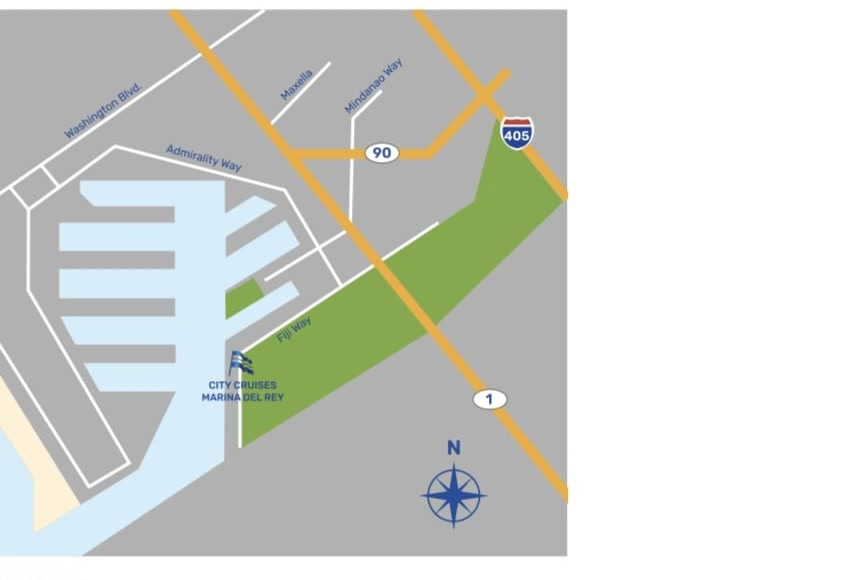
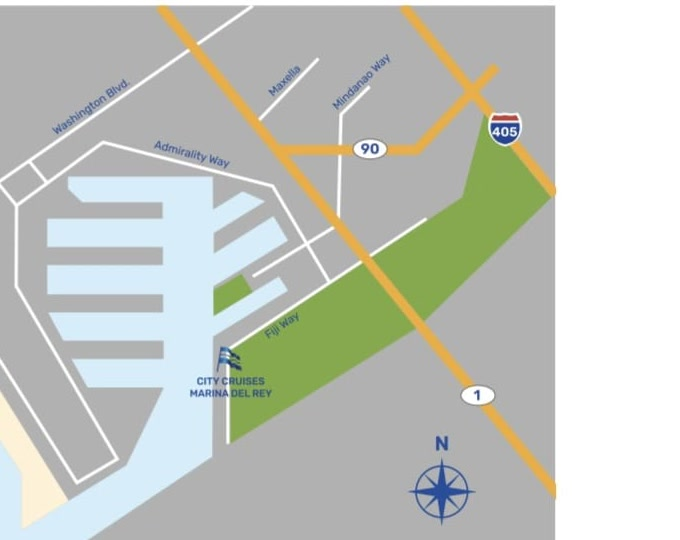
feat: croquis recortado limpio, lightbox expandible, texto PDF exacto (Location/Directions/Parking en ingles), yate.jpg como fondo seccion ceremonia

diff --git a/index.html b/index.html
@@ -981,13 +981,31 @@ h1 em,h2 em,h3 em{font-style:italic;font-weight:500;color:var(--accent)}
 .parking{text-align:center;contain:none;overflow:visible}
 .parking-inner{max-width:680px;margin:0 auto}
 .parking-map{
-  display:block;width:100%;max-width:520px;margin:0 auto 48px;
+  display:block;width:100%;max-width:460px;margin:0 auto 48px;
   border-radius:12px;
   border:1px solid rgba(201,166,100,.32);
   box-shadow:0 12px 40px rgba(26,46,74,.16),0 2px 8px rgba(26,46,74,.08);
-  overflow:hidden;
+  overflow:hidden;cursor:zoom-in;
+  transition:transform .3s ease,box-shadow .3s ease;
 }
+.parking-map:hover{transform:scale(1.02);box-shadow:0 16px 48px rgba(26,46,74,.22)}
 .parking-map img{width:100%;height:auto;display:block}
+/* Lightbox para expandir el croquis */
+#parking-lightbox{
+  position:fixed;inset:0;z-index:9990;display:none;
+  align-items:center;justify-content:center;
+  background:rgba(10,15,38,.85);
+  backdrop-filter:blur(12px);-webkit-backdrop-filter:blur(12px);
+  cursor:zoom-out;opacity:0;padding:clamp(16px,4vw,48px);
+}
+#parking-lightbox.is-open{display:flex}
+#parking-lightbox img{
+  max-width:min(92vw,800px);max-height:min(85vh,700px);
+  width:auto;height:auto;object-fit:contain;
+  border-radius:14px;
+  box-shadow:0 28px 90px rgba(0,0,0,.6),0 0 0 1px rgba(201,166,100,.3);
+  opacity:0;transform:scale(.88);
+}
 .parking-details{
   max-width:520px;margin:0 auto;text-align:left;
 }
@@ -1090,8 +1108,27 @@ a:focus-visible,button:focus-visible{outline:2px solid var(--gold);outline-offse
   .hero-content{padding:40px 20px}
 }
 /* ============ CELEBRACIÓN UNIFICADA (Ceremonia + Itinerario) ============ */
-.celebracion{padding:min(18vh,170px) 0;contain:none;overflow:visible}
+.celebracion{padding:min(18vh,170px) 0;contain:none;overflow:visible;position:relative}
 .celebracion .locs-sub{margin-bottom:64px}
+/* Yate background de la sección ceremonia */
+.celebracion-bg{
+  position:absolute;inset:0;width:100%;height:100%;
+  object-fit:cover;object-position:center 55%;
+  filter:saturate(.75) brightness(.88);
+  z-index:0;
+}
+.celebracion-overlay{
+  position:absolute;inset:0;z-index:0;
+  background:
+    linear-gradient(180deg,
+      var(--paper) 0%,
+      rgba(245,239,227,.82) 8%,
+      rgba(245,239,227,.65) 30%,
+      rgba(245,239,227,.65) 70%,
+      rgba(245,239,227,.82) 92%,
+      var(--paper) 100%);
+}
+.celebracion > .container{position:relative;z-index:1}
 .cer-sub-verse{
   font-family:var(--script);font-weight:400;
   font-size:clamp(26px,3.4vw,36px);
@@ -1663,6 +1700,8 @@ a:focus-visible,button:focus-visible{outline:2px solid var(--gold);outline-offse
 
   <!-- CELEBRACIÓN: CEREMONIA + ITINERARIO (sección unificada) -->
   <section class="section-paper celebracion locs itinerary">
+    <img class="celebracion-bg" src="yate.jpg" alt="" aria-hidden="true" loading="lazy">
+    <div class="celebracion-overlay" aria-hidden="true"></div>
     <span class="mono-wm" aria-hidden="true">U &amp; E</span>
     <div class="container">
 
@@ -1675,9 +1714,7 @@ a:focus-visible,button:focus-visible{outline:2px solid var(--gold);outline-offse
 
       <!-- BLOQUE 1 · CEREMONIA RELIGIOSA -->
       <div class="cer-block">
-        <article class="loc-card loc-card--solo loc-card--yate" data-tilt>
-          <img class="loc-card-bg" src="yate.jpg" alt="" aria-hidden="true">
-          <div class="loc-card-overlay" aria-hidden="true"></div>
+        <article class="loc-card loc-card--solo" data-tilt>
           <span class="washi washi--l"></span>
           <svg class="rosette rosette--tl" viewBox="0 0 44 44" fill="none" aria-hidden="true">
             <g stroke="var(--gold)" stroke-width=".8" fill="none">
@@ -1810,42 +1847,56 @@ a:focus-visible,button:focus-visible{outline:2px solid var(--gold);outline-offse
   <!-- PARKING & DIRECTIONS -->
   <section class="section-bg parking">
     <div class="container parking-inner">
-      <div class="eyebrow">Información importante</div>
+      <div class="eyebrow">Parking &amp; Directions</div>
       <h2>Estacionamiento <em>&amp;</em> Cómo llegar</h2>
 
-      <div class="parking-map">
+      <div class="parking-map" id="parking-map-trigger" role="button" aria-label="Ampliar mapa" tabindex="0">
         <img src="parking-map.jpg" alt="Croquis de ubicación — City Cruises Marina del Rey, Fisherman's Village" loading="lazy">
       </div>
 
       <div class="parking-details">
         <div class="parking-block">
-          <div class="parking-block-title">Cómo llegar desde la 405</div>
+          <div class="parking-block-title">Location</div>
           <div class="parking-block-text">
+            <p>City Cruises Marina del Rey<br>13755 Fiji Way, Marina del Rey CA 90292</p>
+          </div>
+        </div>
+
+        <div class="parking-block">
+          <div class="parking-block-title">Directions</div>
+          <div class="parking-block-text">
+            <p style="margin-bottom:10px;color:var(--gold-deep);font-weight:600;font-family:var(--sans);font-size:12px;letter-spacing:.2em;text-transform:uppercase">To approach from the San Diego Freeway (405):</p>
             <ul>
-              <li>Toma la Marina Freeway 90 hacia el oeste</li>
-              <li>Gira a la izquierda en Mindanao Way</li>
-              <li>Gira a la izquierda en Admiralty Way</li>
-              <li>Gira a la derecha en Fiji Way</li>
-              <li>Estaciona en el lote marcado <b>Fisherman's Village</b></li>
+              <li>Take the Marina Freeway 90 going west</li>
+              <li>Turn left onto Mindanao Way</li>
+              <li>Turn left onto Admiralty Way</li>
+              <li>Turn right onto Fiji Way</li>
+              <li>Park in the lot marked <b>Fisherman's Village</b></li>
             </ul>
           </div>
         </div>
 
         <div class="parking-block">
-          <div class="parking-block-title">Tarifas de estacionamiento</div>
+          <div class="parking-block-title">Parking</div>
           <div class="parking-block-text">
-            <p style="margin-bottom:12px">El estacionamiento de Fisherman's Village es público y con costo. Deberás pagar en las estaciones del lote y colocar el recibo en tu tablero.</p>
+            <p style="margin-bottom:12px">The Fisherman's Village lot is a city mandated parking facility. You will need to pay for parking and obtain a ticket to put on your vehicle's dashboard. The pay stations (located throughout the parking facility) take credit card or cash.</p>
+            <p style="margin-bottom:10px;color:var(--gold-deep);font-weight:600;font-family:var(--sans);font-size:12px;letter-spacing:.2em;text-transform:uppercase">Parking fees are as follows:</p>
             <dl class="parking-fees">
-              <dt>0 – 2 horas</dt><dd>$2</dd>
-              <dt>2 – 4 horas</dt><dd>$4</dd>
-              <dt>4+ horas / todo el día</dt><dd>$8</dd>
+              <dt>0 – 2 hours</dt><dd>$2</dd>
+              <dt>2 – 4 hours</dt><dd>$4</dd>
+              <dt>4 hours – all day</dt><dd>$8</dd>
             </dl>
-            <p class="parking-note">Las estaciones de pago aceptan tarjeta y efectivo. City Cruises no opera el estacionamiento; las tarifas pueden cambiar.</p>
+            <p class="parking-note">*City Cruises does not own or operate any of the parking facilities and rates are subject to change.</p>
           </div>
         </div>
       </div>
     </div>
   </section>
+
+  <!-- Lightbox para el croquis de parking -->
+  <div id="parking-lightbox" aria-hidden="true">
+    <img src="parking-map.jpg" alt="Croquis ampliado">
+  </div>
 
   <!-- DIVIDER: bg → surface -->
   <div class="seam" style="--from:var(--bg);--to:var(--surface)" aria-hidden="true"></div>
@@ -2720,6 +2771,29 @@ if(musicBtn){
 gsap.fromTo('.parking .eyebrow, .parking h2',{opacity:0,y:18},{opacity:1,y:0,duration:1,stagger:.1,scrollTrigger:{trigger:'.parking',start:'top 80%'}});
 gsap.fromTo('.parking-map',{opacity:0,y:30,scale:.96},{opacity:1,y:0,scale:1,duration:1.2,ease:'power3.out',scrollTrigger:{trigger:'.parking-map',start:'top 84%'}});
 gsap.fromTo('.parking-block',{opacity:0,x:-18},{opacity:1,x:0,duration:.9,stagger:.15,ease:'power3.out',scrollTrigger:{trigger:'.parking-details',start:'top 86%'}});
+
+// ------ PARKING LIGHTBOX (expandir croquis al pulsar) ------
+(function(){
+  var trigger = document.getElementById('parking-map-trigger');
+  var lb = document.getElementById('parking-lightbox');
+  if(!trigger || !lb) return;
+  var lbImg = lb.querySelector('img');
+  function open(){
+    lb.classList.add('is-open');
+    lb.setAttribute('aria-hidden','false');
+    gsap.to(lb,{opacity:1,duration:.35,ease:'power2.out'});
+    gsap.to(lbImg,{opacity:1,scale:1,duration:.5,ease:'power3.out',delay:.05});
+  }
+  function close(){
+    gsap.to(lbImg,{opacity:0,scale:.88,duration:.28,ease:'power2.in'});
+    gsap.to(lb,{opacity:0,duration:.3,ease:'power2.in',delay:.05,
+      onComplete:function(){ lb.classList.remove('is-open'); lb.setAttribute('aria-hidden','true'); lbImg.style.opacity='0'; lbImg.style.transform='scale(.88)'; }});
+  }
+  trigger.addEventListener('click',open);
+  trigger.addEventListener('keydown',function(e){ if(e.key==='Enter') open(); });
+  lb.addEventListener('click',close);
+  document.addEventListener('keydown',function(e){ if(e.key==='Escape' && lb.classList.contains('is-open')) close(); });
+})();
 </script>
 </body>
 </html>
